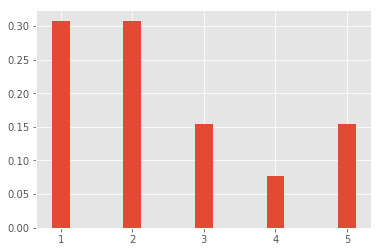
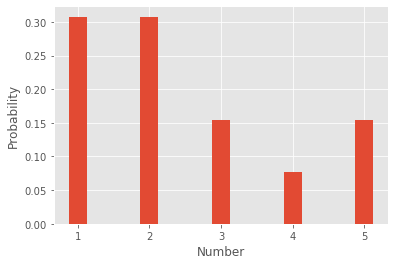
fixed env conflicts

Changed region(s): [[0.0, 0.0278, 0.9816, 0.9722]]

diff --git a/README.md b/README.md
@@ -138,13 +138,18 @@ While we're at it, let's rescale our x-axis a little bit better in our histogram
 
 
 ```python
-xtick_locations = np.arange(1.5, 7.5, 1)  # x=5, 15, 25, ...
-xtick_labels = ['1', '2', '3', '4', '5']
-bins = range(1, 7, 1) 
-plt.xticks(xtick_locations, xtick_labels)
+xtick_locations = range(1,6)
+bins = np.arange(6)+0.5
+plt.xticks(ticks=xtick_locations)
+plt.xlabel('Number')
+plt.ylabel('Probability')
 
 plt.hist(x, bins=bins,  rwidth=0.25, density=True);
 ```
+
+
+![png](index_files/index_11_0.png)
+
 
 ## Expected Value and Variance
 
